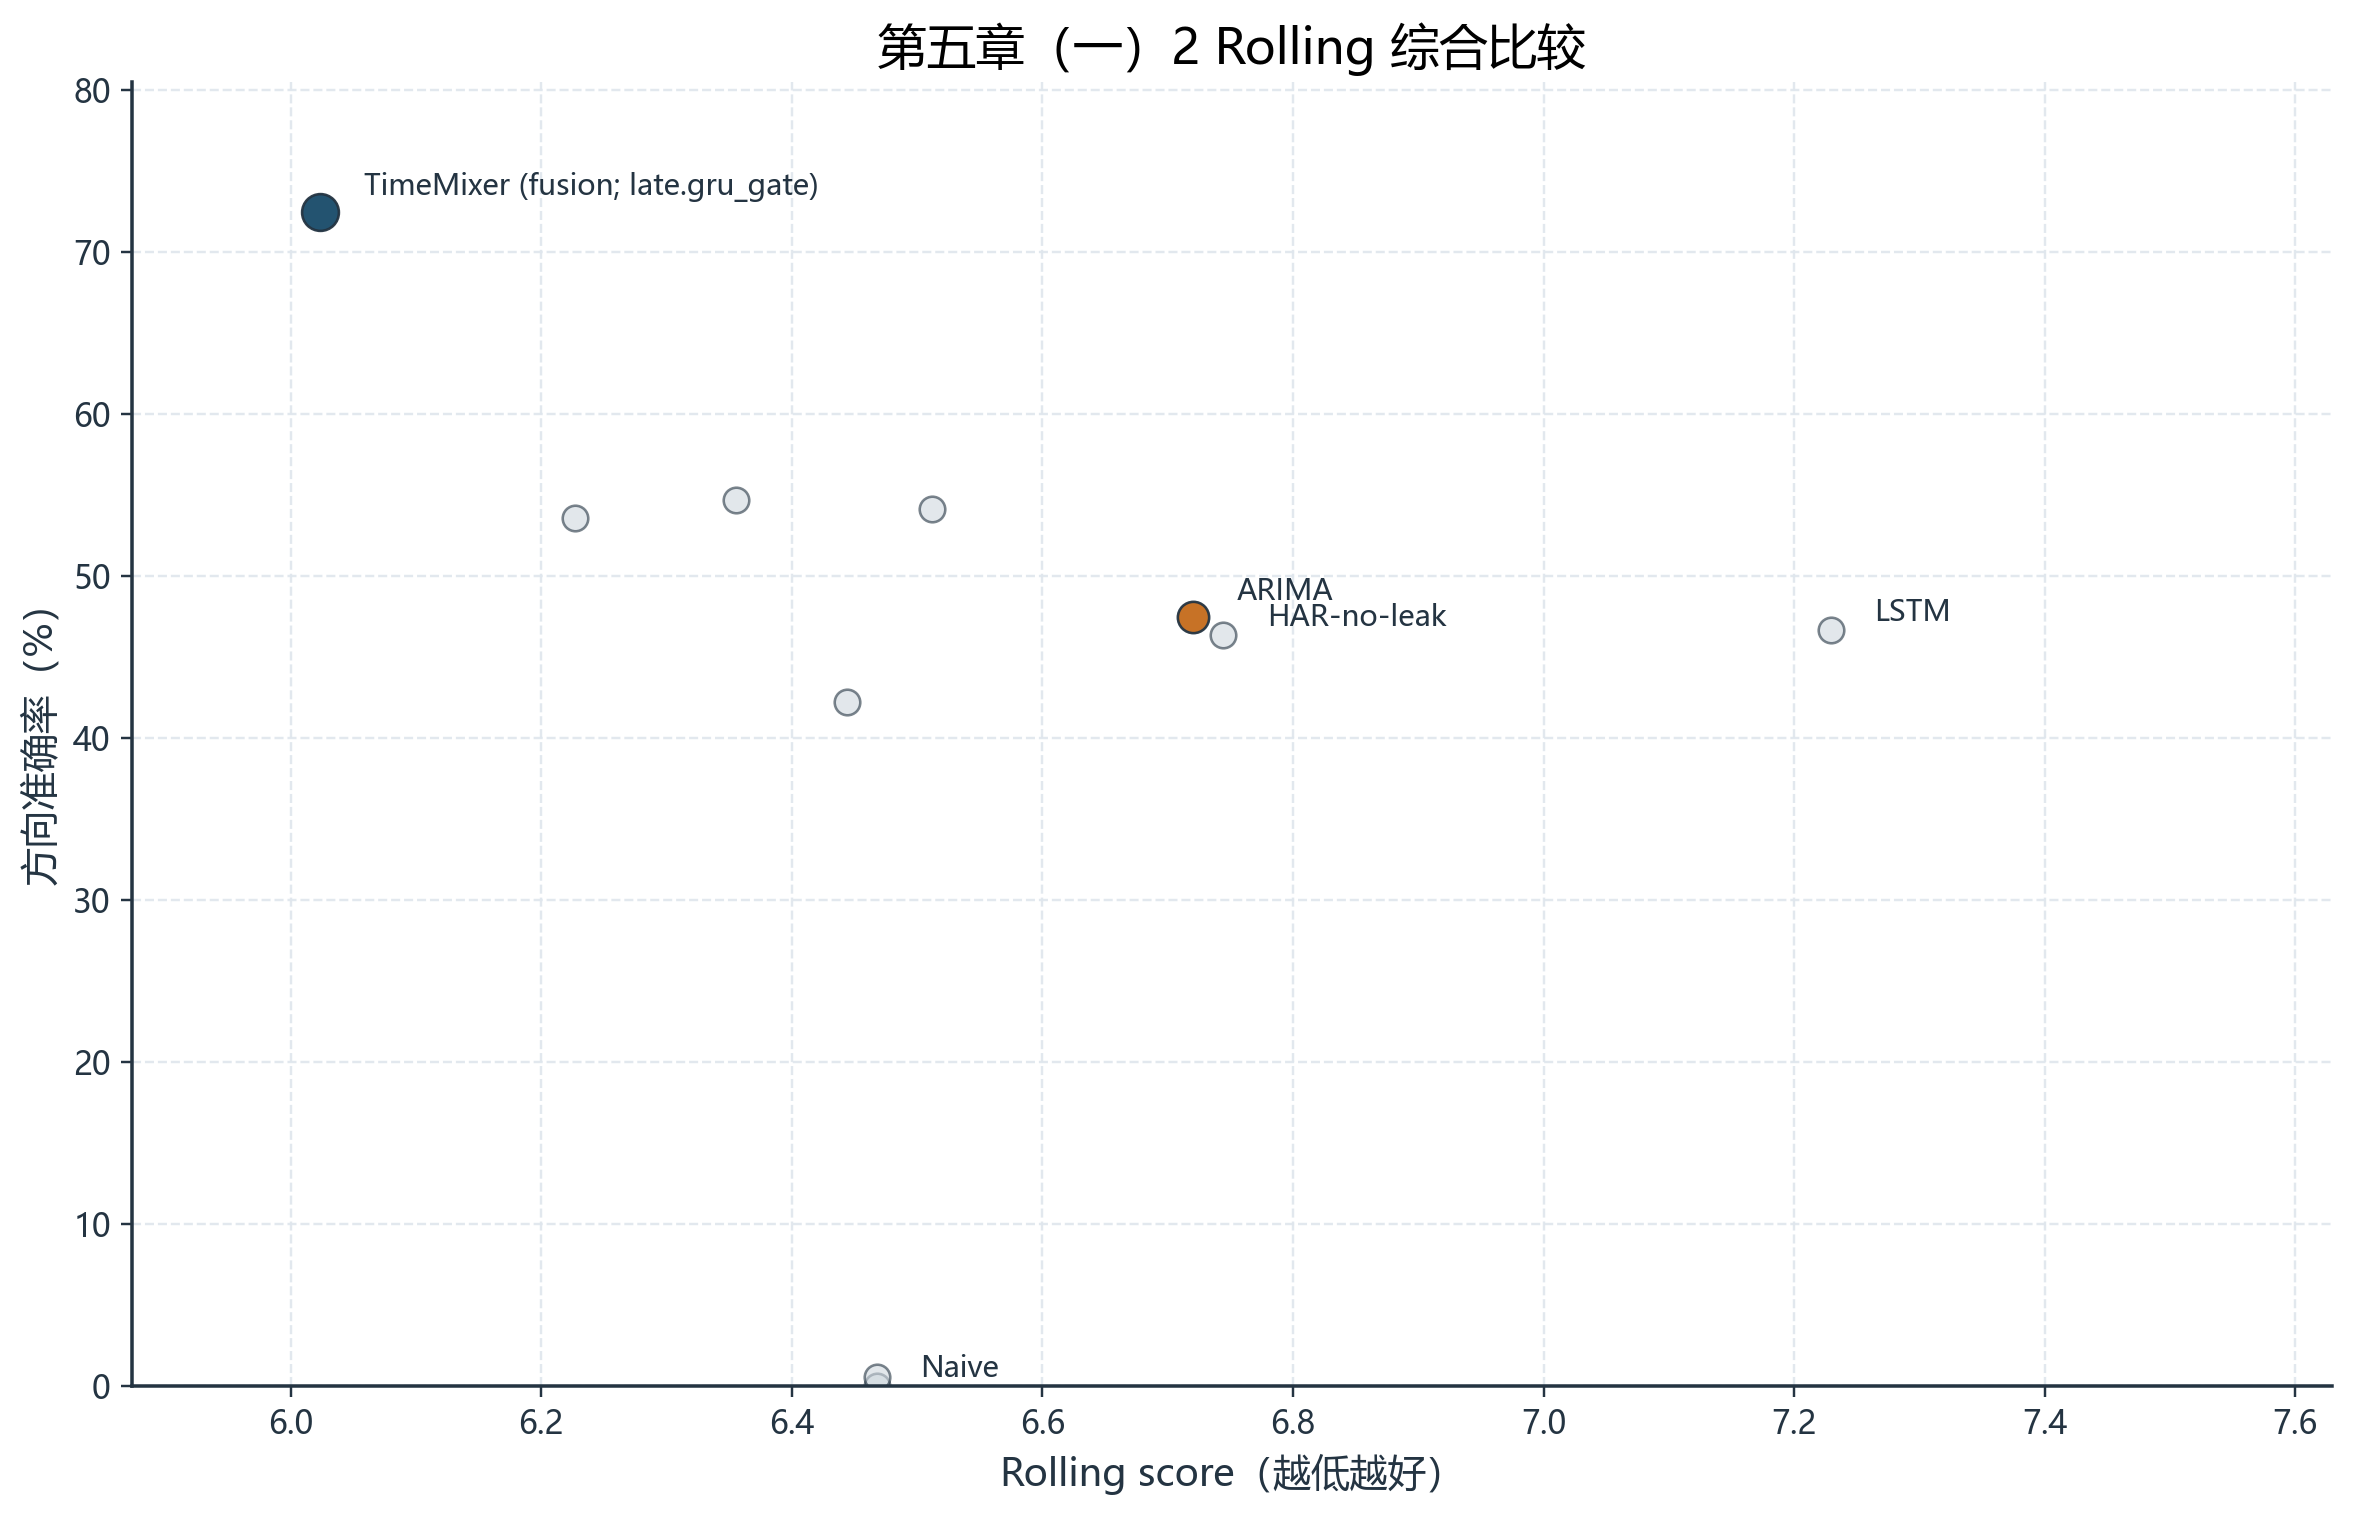
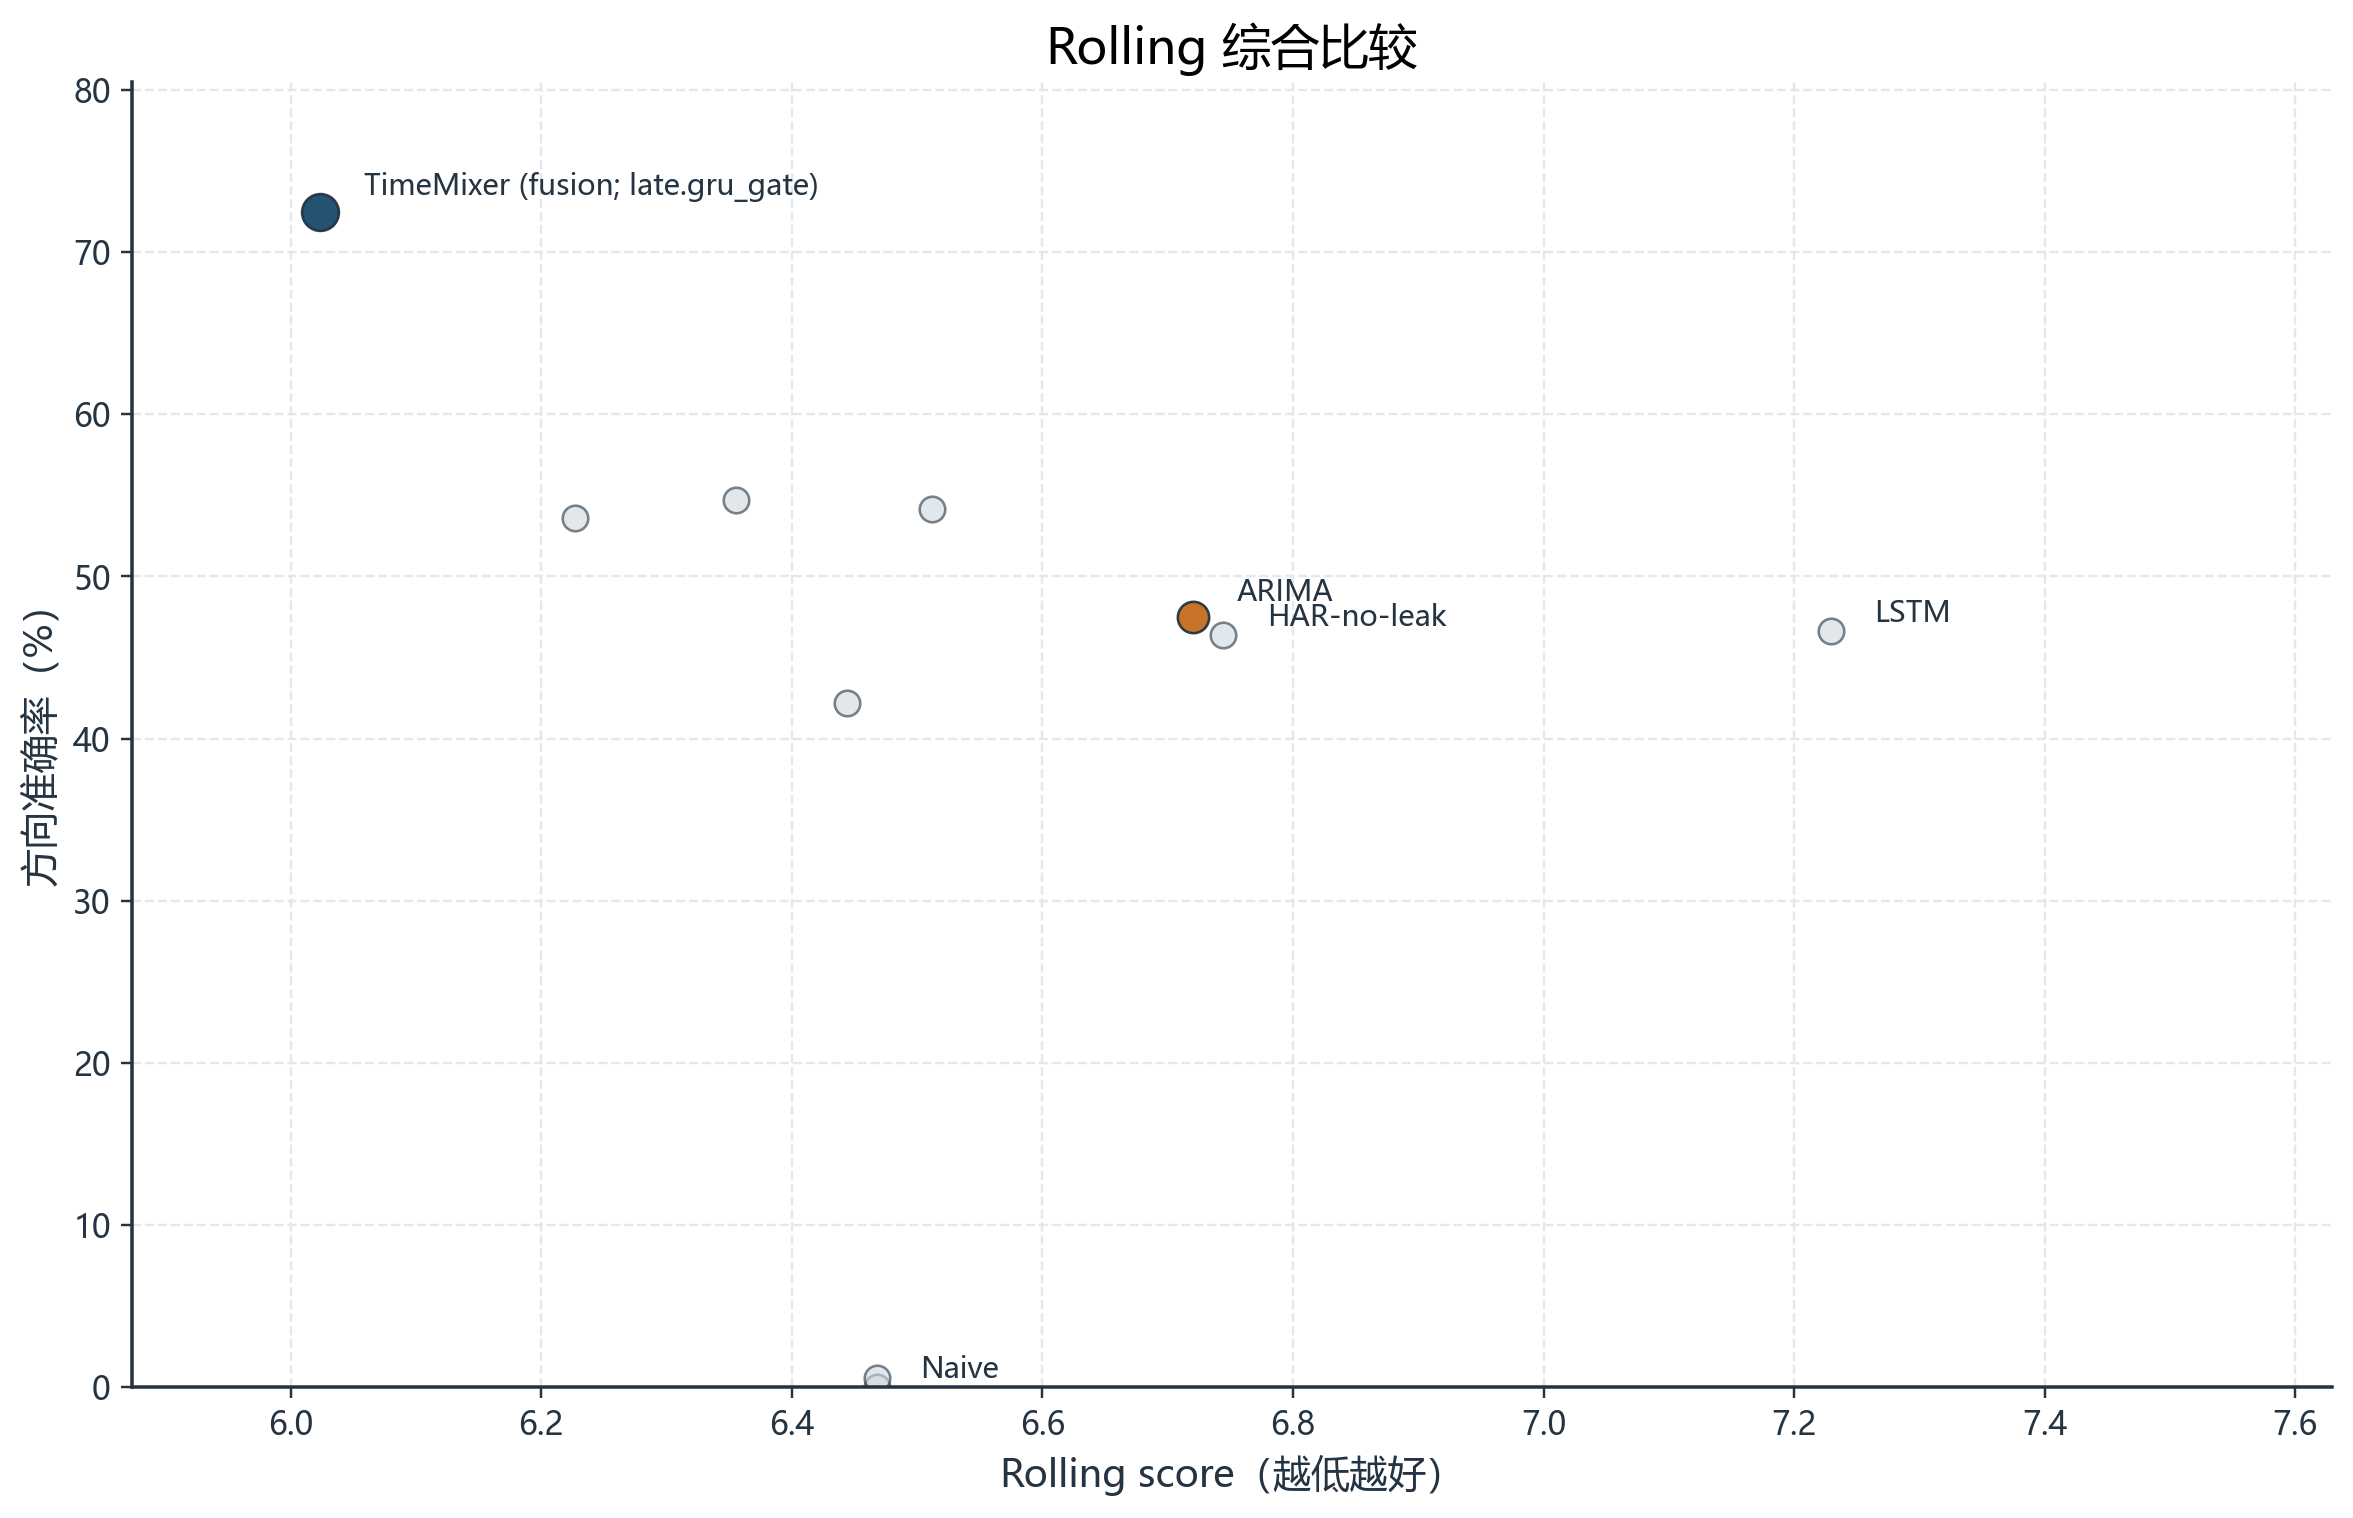
完善可视化

Changed region(s): [[0.3723, 0.0, 0.6825, 0.062], [0.0, 0.4957, 0.031, 0.5267], [0.0, 0.4028, 0.031, 0.4338]]

diff --git a/5_statistical_analysis/scripts/plot_evaluation_figures.py b/5_statistical_analysis/scripts/plot_evaluation_figures.py
@@ -23,7 +23,7 @@ NEUTRAL_DARK = "#7d8b96"
 GRID_COLOR = PALETTE["grid"]
 
 
-def configure_chapter5_style() -> None:
+def configure_evaluation_style() -> None:
     import matplotlib.pyplot as plt
 
     configure_paper_style()
@@ -89,7 +89,7 @@ def plot_fixed_test_overview() -> None:
     colors = [model_color(row.run_id, row.model) for row in frame.itertuples(index=False)]
     y = np.arange(len(frame))
 
-    configure_chapter5_style()
+    configure_evaluation_style()
     fig, axes = plt.subplots(1, 2, figsize=(15.8, 7.0), sharey=True, gridspec_kw={"wspace": 0.10})
     metrics = [("test_rmse_mean", "RMSE（越低越好）"), ("test_mae_mean", "MAE（越低越好）")]
     for ax, (column, xlabel) in zip(axes, metrics):
@@ -103,7 +103,7 @@ def plot_fixed_test_overview() -> None:
     axes[0].invert_yaxis()
     axes[0].set_title("固定测试集 RMSE 排序")
     axes[1].set_title("固定测试集 MAE 排序")
-    fig.suptitle("第五章（一）1 固定测试集综合比较", fontsize=17, y=0.98)
+    fig.suptitle("固定测试集综合比较", fontsize=17, y=0.98)
     fig.subplots_adjust(left=0.20, right=0.985, top=0.88, bottom=0.12, wspace=0.12)
     save_figure(fig, FIGURE_DIR / "fixed_test_overview.png", dpi=220)
 
@@ -116,7 +116,7 @@ def plot_rolling_overview_scatter() -> None:
     frame = frame.dropna(subset=["rolling_score", "direction_acc_mean"]).copy()
     frame["direction_pct"] = frame["direction_acc_mean"] * 100.0
 
-    configure_chapter5_style()
+    configure_evaluation_style()
     fig, ax = plt.subplots(figsize=(10.8, 7.0))
     for _, row in frame.iterrows():
         color = model_color(row["run_id"], row["model"])
@@ -141,7 +141,7 @@ def plot_rolling_overview_scatter() -> None:
 
     ax.set_xlabel("Rolling score（越低越好）")
     ax.set_ylabel("方向准确率（%）")
-    ax.set_title("第五章（一）2 Rolling 综合比较")
+    ax.set_title("Rolling 综合比较")
     ax.set_xlim(float(frame["rolling_score"].min()) - 0.15, float(frame["rolling_score"].max()) + 0.40)
     ax.set_ylim(max(0, float(frame["direction_pct"].min()) - 8), min(100, float(frame["direction_pct"].max()) + 8))
     style_axis(ax, xgrid=True, ygrid=True)
@@ -165,7 +165,7 @@ def plot_dual_panel_bars(frame: pd.DataFrame, labels: list[str], title: str, pat
     y = np.arange(len(frame))
     colors = [model_color(row.run_id, row.model) if row.run_id in highlight_run_ids else NEUTRAL_COLOR for row in frame.itertuples(index=False)]
 
-    configure_chapter5_style()
+    configure_evaluation_style()
     fig, axes = plt.subplots(1, 2, figsize=(13.8, 5.8), sharey=True, gridspec_kw={"wspace": 0.08})
     panels = [("test_rmse_mean", "固定测试集 RMSE（越低越好）"), ("rolling_score", "Rolling score（越低越好）")]
     for ax, (column, xlabel) in zip(axes, panels):
@@ -194,7 +194,7 @@ def plot_multimodal_gain_comparison() -> None:
     plot_dual_panel_bars(
         frame,
         labels,
-        "第五章（二）1 单模态与多模态增益",
+        "单模态与多模态增益",
         FIGURE_DIR / "multimodal_gain_comparison.png",
         highlight_run_ids={MAINLINE_RUN_ID},
     )
@@ -210,7 +210,7 @@ def plot_fusion_strategy_comparison() -> None:
     plot_dual_panel_bars(
         frame,
         labels,
-        "第五章（二）2 融合策略比较",
+        "融合策略比较",
         FIGURE_DIR / "fusion_strategy_comparison.png",
         highlight_run_ids={MAINLINE_RUN_ID},
     )
@@ -231,7 +231,7 @@ def plot_high_volatility_performance() -> None:
     bar_width = 0.34
     x = np.arange(len(model_order))
 
-    configure_chapter5_style()
+    configure_evaluation_style()
     fig, axes = plt.subplots(1, 2, figsize=(13.6, 5.8), gridspec_kw={"wspace": 0.20})
     metric_info = [("rmse", "RMSE（越低越好）"), ("direction_acc", "方向准确率（%）")]
     for ax, (metric, ylabel) in zip(axes, metric_info):
@@ -254,7 +254,7 @@ def plot_high_volatility_performance() -> None:
         ax.set_ylim(0, max(float(frame[metric].max() * (100.0 if metric == "direction_acc" else 1.0)) * 1.25, 1.0))
         style_axis(ax, xgrid=False, ygrid=True)
     axes[0].legend(frameon=False, loc="upper left")
-    fig.suptitle("第五章（三）1 高风险阶段表现", fontsize=16.5, y=0.98)
+    fig.suptitle("高风险阶段表现", fontsize=16.5, y=0.98)
     fig.subplots_adjust(left=0.08, right=0.985, top=0.84, bottom=0.16, wspace=0.24)
     save_figure(fig, FIGURE_DIR / "high_volatility_performance_comparison.png", dpi=220)
 
@@ -268,7 +268,7 @@ def plot_mainline_fold_stability() -> None:
     if len(frame) != 6:
         raise ValueError(f"Expected 6 mainline folds in {FOLD_METRICS_PATH}, got {len(frame)}.")
 
-    configure_chapter5_style()
+    configure_evaluation_style()
     fig, ax1 = plt.subplots(figsize=(11.6, 6.4))
     ax2 = ax1.twinx()
     ax1.plot(frame["fold"], frame["rmse"], marker="o", linewidth=2.6, markersize=7.5, color=MAIN_COLOR, label="RMSE")
@@ -295,7 +295,7 @@ def plot_mainline_fold_stability() -> None:
     ax2.spines["top"].set_visible(False)
     lines = ax1.get_lines() + ax2.get_lines()
     ax1.legend(lines, [line.get_label() for line in lines], frameon=False, loc="upper left")
-    ax1.set_title("第五章（三）2 主线折次稳定性")
+    ax1.set_title("主线折次稳定性")
     fig.tight_layout()
     save_figure(fig, FIGURE_DIR / "mainline_fold_stability.png", dpi=220)
 
@@ -308,7 +308,7 @@ def main() -> None:
     plot_fusion_strategy_comparison()
     plot_high_volatility_performance()
     plot_mainline_fold_stability()
-    print(f"Chapter 5 figures refreshed in {FIGURE_DIR}")
+    print(f"Evaluation figures refreshed in {FIGURE_DIR}")
 
 
 if __name__ == "__main__":

diff --git a/5_statistical_analysis/scripts/plot_paper_figures.py b/5_statistical_analysis/scripts/plot_paper_figures.py
@@ -5,8 +5,8 @@ from analysis_common import FIGURE_DIR
 
 def main() -> None:
     print(
-        "plot_paper_figures.py no longer builds Chapter 5 figures. "
-        "Run 5_statistical_analysis/scripts/plot_chapter5_figures.py for the final Chapter 5 figure set. "
+        "This compatibility entry no longer builds the evaluation figures. "
+        "Run 5_statistical_analysis/scripts/plot_evaluation_figures.py instead. "
         f"Output directory: {FIGURE_DIR}"
     )
 

diff --git a/5_statistical_analysis/README.md b/5_statistical_analysis/README.md
@@ -1,12 +1,12 @@
 # 5_statistical_analysis
 
-This directory contains paper-facing statistical analysis assets. It does not train models.
+This directory contains statistical analysis and evaluation assets. It does not train models.
 
 Main roles:
 
-- Chapter 3 descriptive and diagnostic data packages.
-- Chapter 5 rolling robustness and event-window summaries.
-- Final paper tables and figures used for writing and defense material.
+- Descriptive and diagnostic data packages.
+- Rolling robustness and event-window summaries.
+- Evaluation tables and figures for reporting model behavior.
 
 Run the scripts in this order:
 
@@ -19,23 +19,19 @@ python 5_statistical_analysis/scripts/run_lag_relationship_analysis.py
 python 5_statistical_analysis/scripts/run_source_composition.py
 python 5_statistical_analysis/scripts/run_event_window_analysis.py
 python 5_statistical_analysis/scripts/build_robustness_summary.py
-python 5_statistical_analysis/scripts/plot_chapter5_figures.py
+python 5_statistical_analysis/scripts/plot_evaluation_figures.py
 ```
 
-Final Chapter 5 figures:
+Evaluation figures:
 
-| chapter section | figure |
+| purpose | figure |
 | --- | --- |
-| 5.1.1 fixed test comparison | `fixed_test_overview.png` |
-| 5.1.2 rolling comparison | `rolling_overview_scatter.png` |
-| 5.2.1 multimodal gain | `multimodal_gain_comparison.png` |
-| 5.2.2 fusion strategy comparison | `fusion_strategy_comparison.png` |
-| 5.3.1 high-risk period performance | `high_volatility_performance_comparison.png` |
-| 5.3.2 mainline fold stability | `mainline_fold_stability.png` |
-
-`plot_paper_figures.py` is kept as a compatibility notice only. It no longer
-generates the old benchmark-context figure or calls the extended 3D/heatmap
-diagnostic views.
+| fixed test comparison | `fixed_test_overview.png` |
+| rolling comparison | `rolling_overview_scatter.png` |
+| multimodal gain | `multimodal_gain_comparison.png` |
+| fusion strategy comparison | `fusion_strategy_comparison.png` |
+| high-risk period performance | `high_volatility_performance_comparison.png` |
+| mainline fold stability | `mainline_fold_stability.png` |
 
 Outputs:
 
